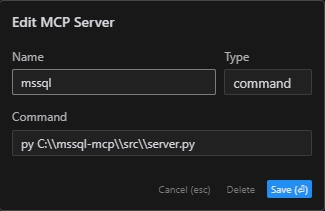
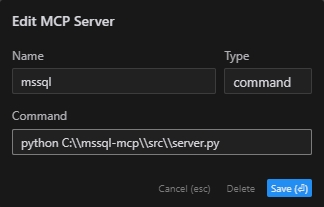
Modify the command py → python to adapt to different OS

diff --git a/README_zh.md b/README_zh.md
@@ -76,7 +76,7 @@ pip install -r requirements.txt
 {
     "mcpServers": {
         "mssql": {
-            "command": "py",
+            "command": "python",
             "args": [
                 # 你的实际路径，如："C:\\mssql-mcp\\src\\server.py"
                 "~/server.py"
@@ -97,7 +97,7 @@ pip install -r requirements.txt
 
 ```bash
 # 注意路径替换为你的实际路径  
-npx -y @modelcontextprotocol/inspector py C:\\mssql-mcp\\src\\server.py
+npx -y @modelcontextprotocol/inspector python C:\\mssql-mcp\\src\\server.py
 ```
 ## 项目结构
 

diff --git a/README.md b/README.md
@@ -78,7 +78,7 @@ pip install -r requirements.txt
 {
     "mcpServers": {
         "mssql": {
-            "command": "py",
+            "command": "python",
             "args": [
                 # your path，e.g.："C:\\mssql-mcp\\src\\server.py"
                 "~/server.py"
@@ -99,7 +99,7 @@ pip install -r requirements.txt
 
 ```bash
 # Note：use your path  
-npx -y @modelcontextprotocol/inspector py C:\\mssql-mcp\\src\\server.py
+npx -y @modelcontextprotocol/inspector python C:\\mssql-mcp\\src\\server.py
 ```
 ## Project Structure
 

diff --git a/README_en.md b/README_en.md
@@ -76,7 +76,7 @@ pip install -r requirements.txt
 {
     "mcpServers": {
         "mssql": {
-            "command": "py",
+            "command": "python",
             "args": [
                 # your path，e.g.："C:\\mssql-mcp\\src\\server.py"
                 "~/server.py"
@@ -97,7 +97,7 @@ pip install -r requirements.txt
 
 ```bash
 # Note：use your path  
-npx -y @modelcontextprotocol/inspector py C:\\mssql-mcp\\src\\server.py
+npx -y @modelcontextprotocol/inspector python C:\\mssql-mcp\\src\\server.py
 ```
 ## Project Structure
 
